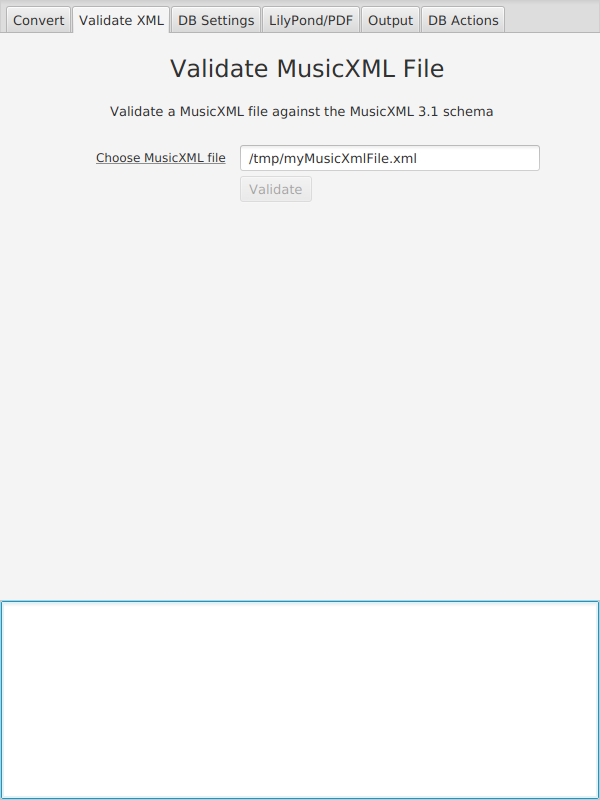
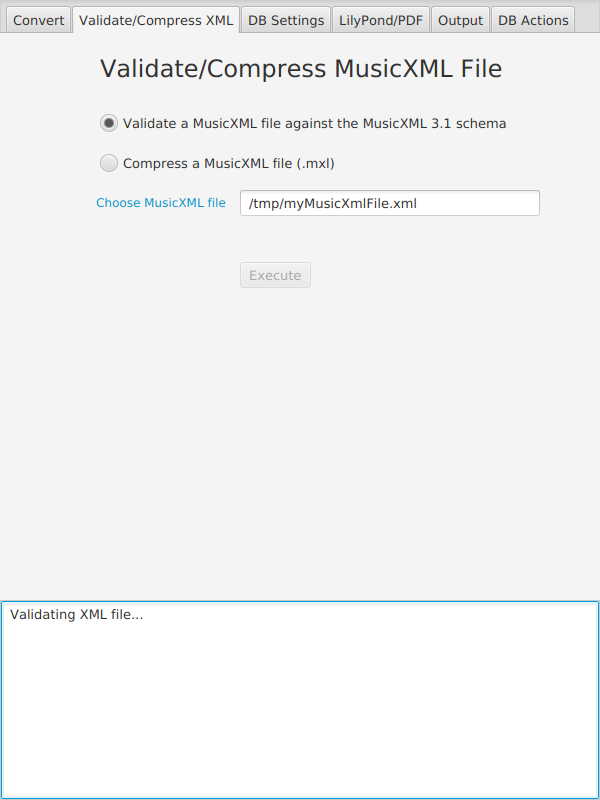
add compress xml file references

Changed region(s): [[0.15, 0.0, 0.96, 0.2812], [0.0, 0.75, 0.21, 0.7812], [0.42, 0.3125, 0.51, 0.375]]

diff --git a/src/main/java/org/curtis/content/ContentMenu.java b/src/main/java/org/curtis/content/ContentMenu.java
@@ -30,7 +30,7 @@ public class ContentMenu {
                                                                         new MenuItem("To PDF", "interface/convert/toPdf.jsp")
                                                                 )
                                                         ),
-                                                        new MenuItem("Validate XML", "interface/validate.jsp"),
+                                                        new MenuItem("Validate/Compress XML", "interface/validate.jsp"),
                                                         new MenuItem("DB Settings", "interface/dbSettings.jsp"),
                                                         new MenuItem("LilyPond/PDF", "interface/lilypondPdf.jsp"),
                                                         new MenuItem("Output", "interface/output.jsp"),
